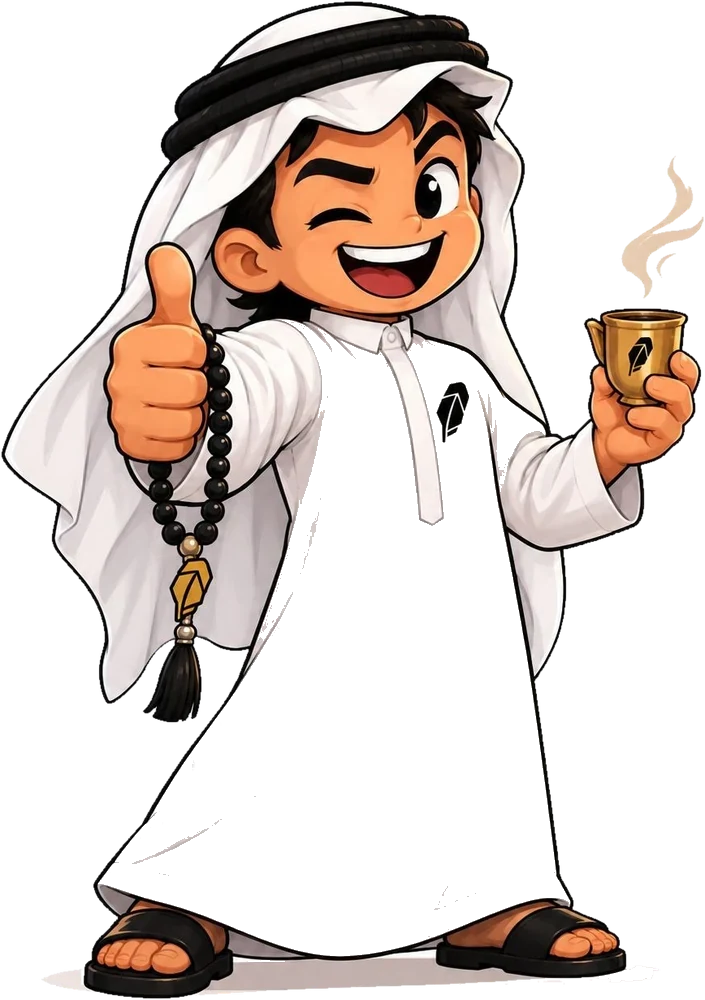
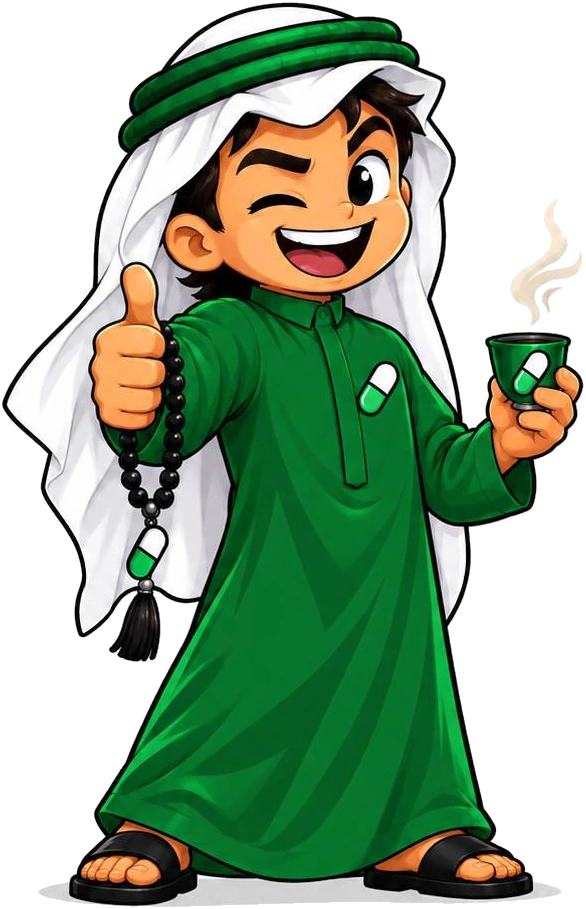
New artwork: every image replaced with the Solana set
The old Robinhood-era logo, mascot, favicons and og:image were still
being served. All of them are gone.

Sources are the 29 files the owner supplied. Of those, 14 are 1254px
originals and 15 are ~392px crops of the same scenes; two originals are
byte-identical duplicates (19==17, 25==21), one is a 3x3 contact grid,
and one is the mascot on a white card.

- mascot.webp: cut out of the mascot card by flooding white inward from
  every border pixel, so only the background is removed. The keffiyeh is
  white too but sits inside the character's black outline, so the flood
  stops at it and the headdress survives. Alpha is blurred 0.6px to take
  the hard threshold off the edge.
- logo.webp and the three favicons: that same cut-out composited on the
  brand green, which reproduces the supplied logo.
- og.jpg: 1200x630, the mascot on brand green with a faint second copy
  as a field. No text - a social card that invents a slogan is worse
  than one that does not.
- gallery: 15 memes. The 10 usable originals, plus the 5 scenes that
  exist only as the smaller crops (jet, Mars, yacht-with-laptop,
  villa, skydiving). Duplicates, the contact grid and the mascot card
  are not in it. Captions rewritten to match what is actually in each
  frame.

banner.webp is deleted with no replacement: the wide banner was not in
the supplied batch, every file in it is square or near-square.
initBanner() probes for the file and hides the figure when it is
[…]

diff --git a/main.js b/main.js
@@ -463,20 +463,21 @@ const GALLERY_EXTS = ['webp', 'jpg', 'jpeg', 'png'];
 const GALLERY_BATCH = 6;
 const GALLERY_MAX = 300;
 const GALLERY_CAPTIONS = {
-  'meme-01': 'Habibi, the chart is beautiful today.',
-  'meme-02': 'Small buys. Big dreams.',
-  'meme-03': 'Same guy. Bigger plans.',
-  'meme-04': 'Habibi, come to Dubai.',
-  'meme-05': 'Good trades. Better views.',
-  'meme-06': 'The desert taught patience. The chart tests it.',
-  'meme-07': 'Higher, faster, further, habibi.',
-  'meme-08': 'Green car. Green candles. Coincidence, habibi?',
-  'meme-09': 'Habibi in orbit. The family follows.',
-  'meme-10': 'Street cred, habibi.',
-  'meme-11': 'Trade, chill, repeat.',
-  'meme-12': 'Boarding now. Destination: anywhere.',
-  'meme-13': 'No limits, habibi.',
-  'meme-14': 'Habibi, the best is yet to come.',
+  'meme-01': 'Habibi, come to Dubai.',
+  'meme-02': 'Rooftop, skyline, no notifications.',
+  'meme-03': 'Trade, chill, repeat.',
+  'meme-04': 'Habibi, the chart is beautiful today.',
+  'meme-05': 'Green car. Green candles. Coincidence, habibi?',
+  'meme-06': 'Street cred, habibi.',
+  'meme-07': 'Small buys. Big dreams.',
+  'meme-08': 'Habibi in orbit. The family follows.',
+  'meme-09': 'Same guy. Bigger plans.',
+  'meme-10': 'Counting blessings, habibi.',
+  'meme-11': 'Boarding now. Destination: anywhere.',
+  'meme-12': 'From earth to Mars, habibi.',
+  'meme-13': 'Good trades. Better views.',
+  'meme-14': 'No limits, habibi.',
+  'meme-15': 'Higher, faster, further.',
 };
 const captionFor = (url) => {
   const m = url.match(/([^/]+)\.[a-z0-9]+$/i);

diff --git a/index.html b/index.html
@@ -5,7 +5,7 @@
   <meta name="viewport" content="width=device-width, initial-scale=1, viewport-fit=cover">
   <title>Habibi ($HABIBI) · Come to Dubai · Solana</title>
   <meta name="description" content="Habibi is a memecoin on Solana, launched via pump.fun. The 0.3% trading fee on every buy and sell goes back to the people trading, as cashback. $HABIBI, come to Dubai.">
-  <meta name="theme-color" content="#fbf1e2">
+  <meta name="theme-color" content="#eef4ef">
   <link rel="canonical" href="https://www.habibioil.xyz/">
 
   <!-- Open Graph -->
@@ -191,7 +191,7 @@
     <div class="stats reveal">
       <article class="stat stat--wide">
         <p class="stat__label">Market cap</p>
-        <p class="stat__value stat__value--gold" data-stat="marketCap">—</p>
+        <p class="stat__value stat__value--warm" data-stat="marketCap">—</p>
         <p class="stat__note" data-stat-note="marketCap">Live after launch</p>
       </article>
       <article class="stat">
